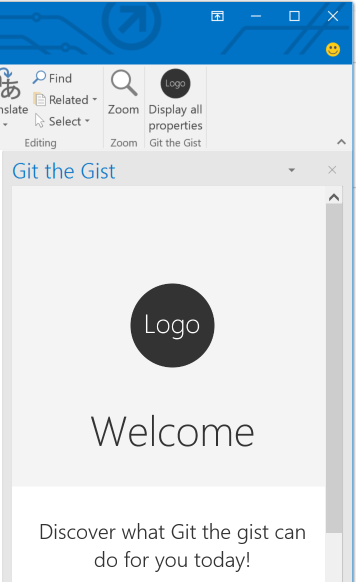
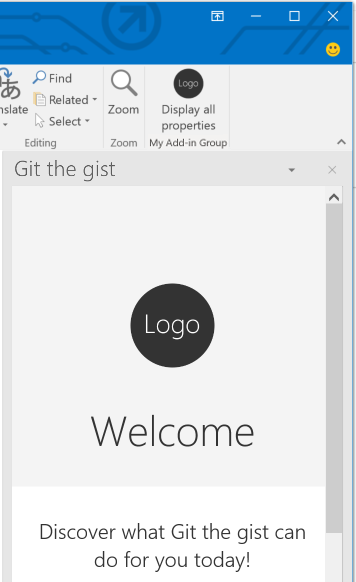
Update image, other minor updates.

Changed region(s): [[0.4017, 0.0928, 0.618, 0.2784], [0.0309, 0.2784, 0.3399, 0.3093]]

diff --git a/docs/add-ins/addin-tutorial.md b/docs/add-ins/addin-tutorial.md
@@ -108,7 +108,7 @@ Use the Yeoman generator to create an Outlook add-in project.
     
     After you complete the wizard, the generator will create the project and install supporting Node components.
 	
-1. Navigate to the root folder of the project.
+1. Navigate to the root directory of the project.
 
     ```bash
     cd "Git the gist"
@@ -118,7 +118,7 @@ Use the Yeoman generator to create an Outlook add-in project.
 
 The XML manifest file that the generator creates contains a placeholder value for the `SupportUrl` element that's not a valid URL. To prevent the file from failing validation, complete the following steps:
 
-1. In the root directory of the **git-the-gist** project that the generator created, add a new file named **support.html**.
+1. In the root directory of the project, add a new file named **support.html**.
 
 1. Add the following markup to the **support.html** file and save the file.
 
@@ -132,12 +132,13 @@ The XML manifest file that the generator creates contains a placeholder value fo
       </head>
       <body>
         <h1>Support</h1>
-        <p>This is the support page for the <b>Git the gist</b> add-in. In a real-world scenario, this page should provide support information for the add-in.</p>
+        <p>This is the support page for the <b>Git the gist</b> add-in.</p>
+        <p>In a real-world scenario, this page should provide support information for the add-in.</p>
       </body>
     </html>
     ````
 
-1. Open the **manifest.xml** file, uncomment the `SupportUrl` element, update it to point to the **support.html** file that you created, and save the file.
+1. Open the **manifest.xml** file, update the `SupportUrl` element to point to the **support.html** file that you created, and save the file.
 
   ```xml
   <SupportUrl DefaultValue="https://localhost:3000/support.html" />
@@ -145,7 +146,7 @@ The XML manifest file that the generator creates contains a placeholder value fo
 
 ### Test the generated add-in
 
-Before going any further, test the basic add-in that the generator created to confirm that the project is setup correctly. 
+Before going any further, let's test the basic add-in that the generator created to confirm that the project is setup correctly. 
 
 1. In your command prompt/shell, make sure you are in the root directory of your project, and enter `npm start`. This will start a web server at `https://localhost:3000`.
 
@@ -158,7 +159,7 @@ Before going any further, test the basic add-in that the generator created to co
 
 1. After your browser loads the add-in page without any certificate errors, follow the instructions in [Sideload Outlook add-ins for testing](sideload-outlook-add-ins-for-testing.md) to sideload the **manifest.xml** file that's located in the root directory of the project.
 
-1. On the **Home** tab (**Message** tab if you opened the message in a new window), choose the **Display all properties** button to open a task pane that displays the add-in's welcome page.
+1. In Outlook, open a message and choose the **Display all properties** button. If everything's been setup correctly, the task pane will open and render the add-in's welcome page.
 
     ![A screenshot of the button and task pane added by the sample](images/addin-tutorial/button-and-pane.PNG)
 
